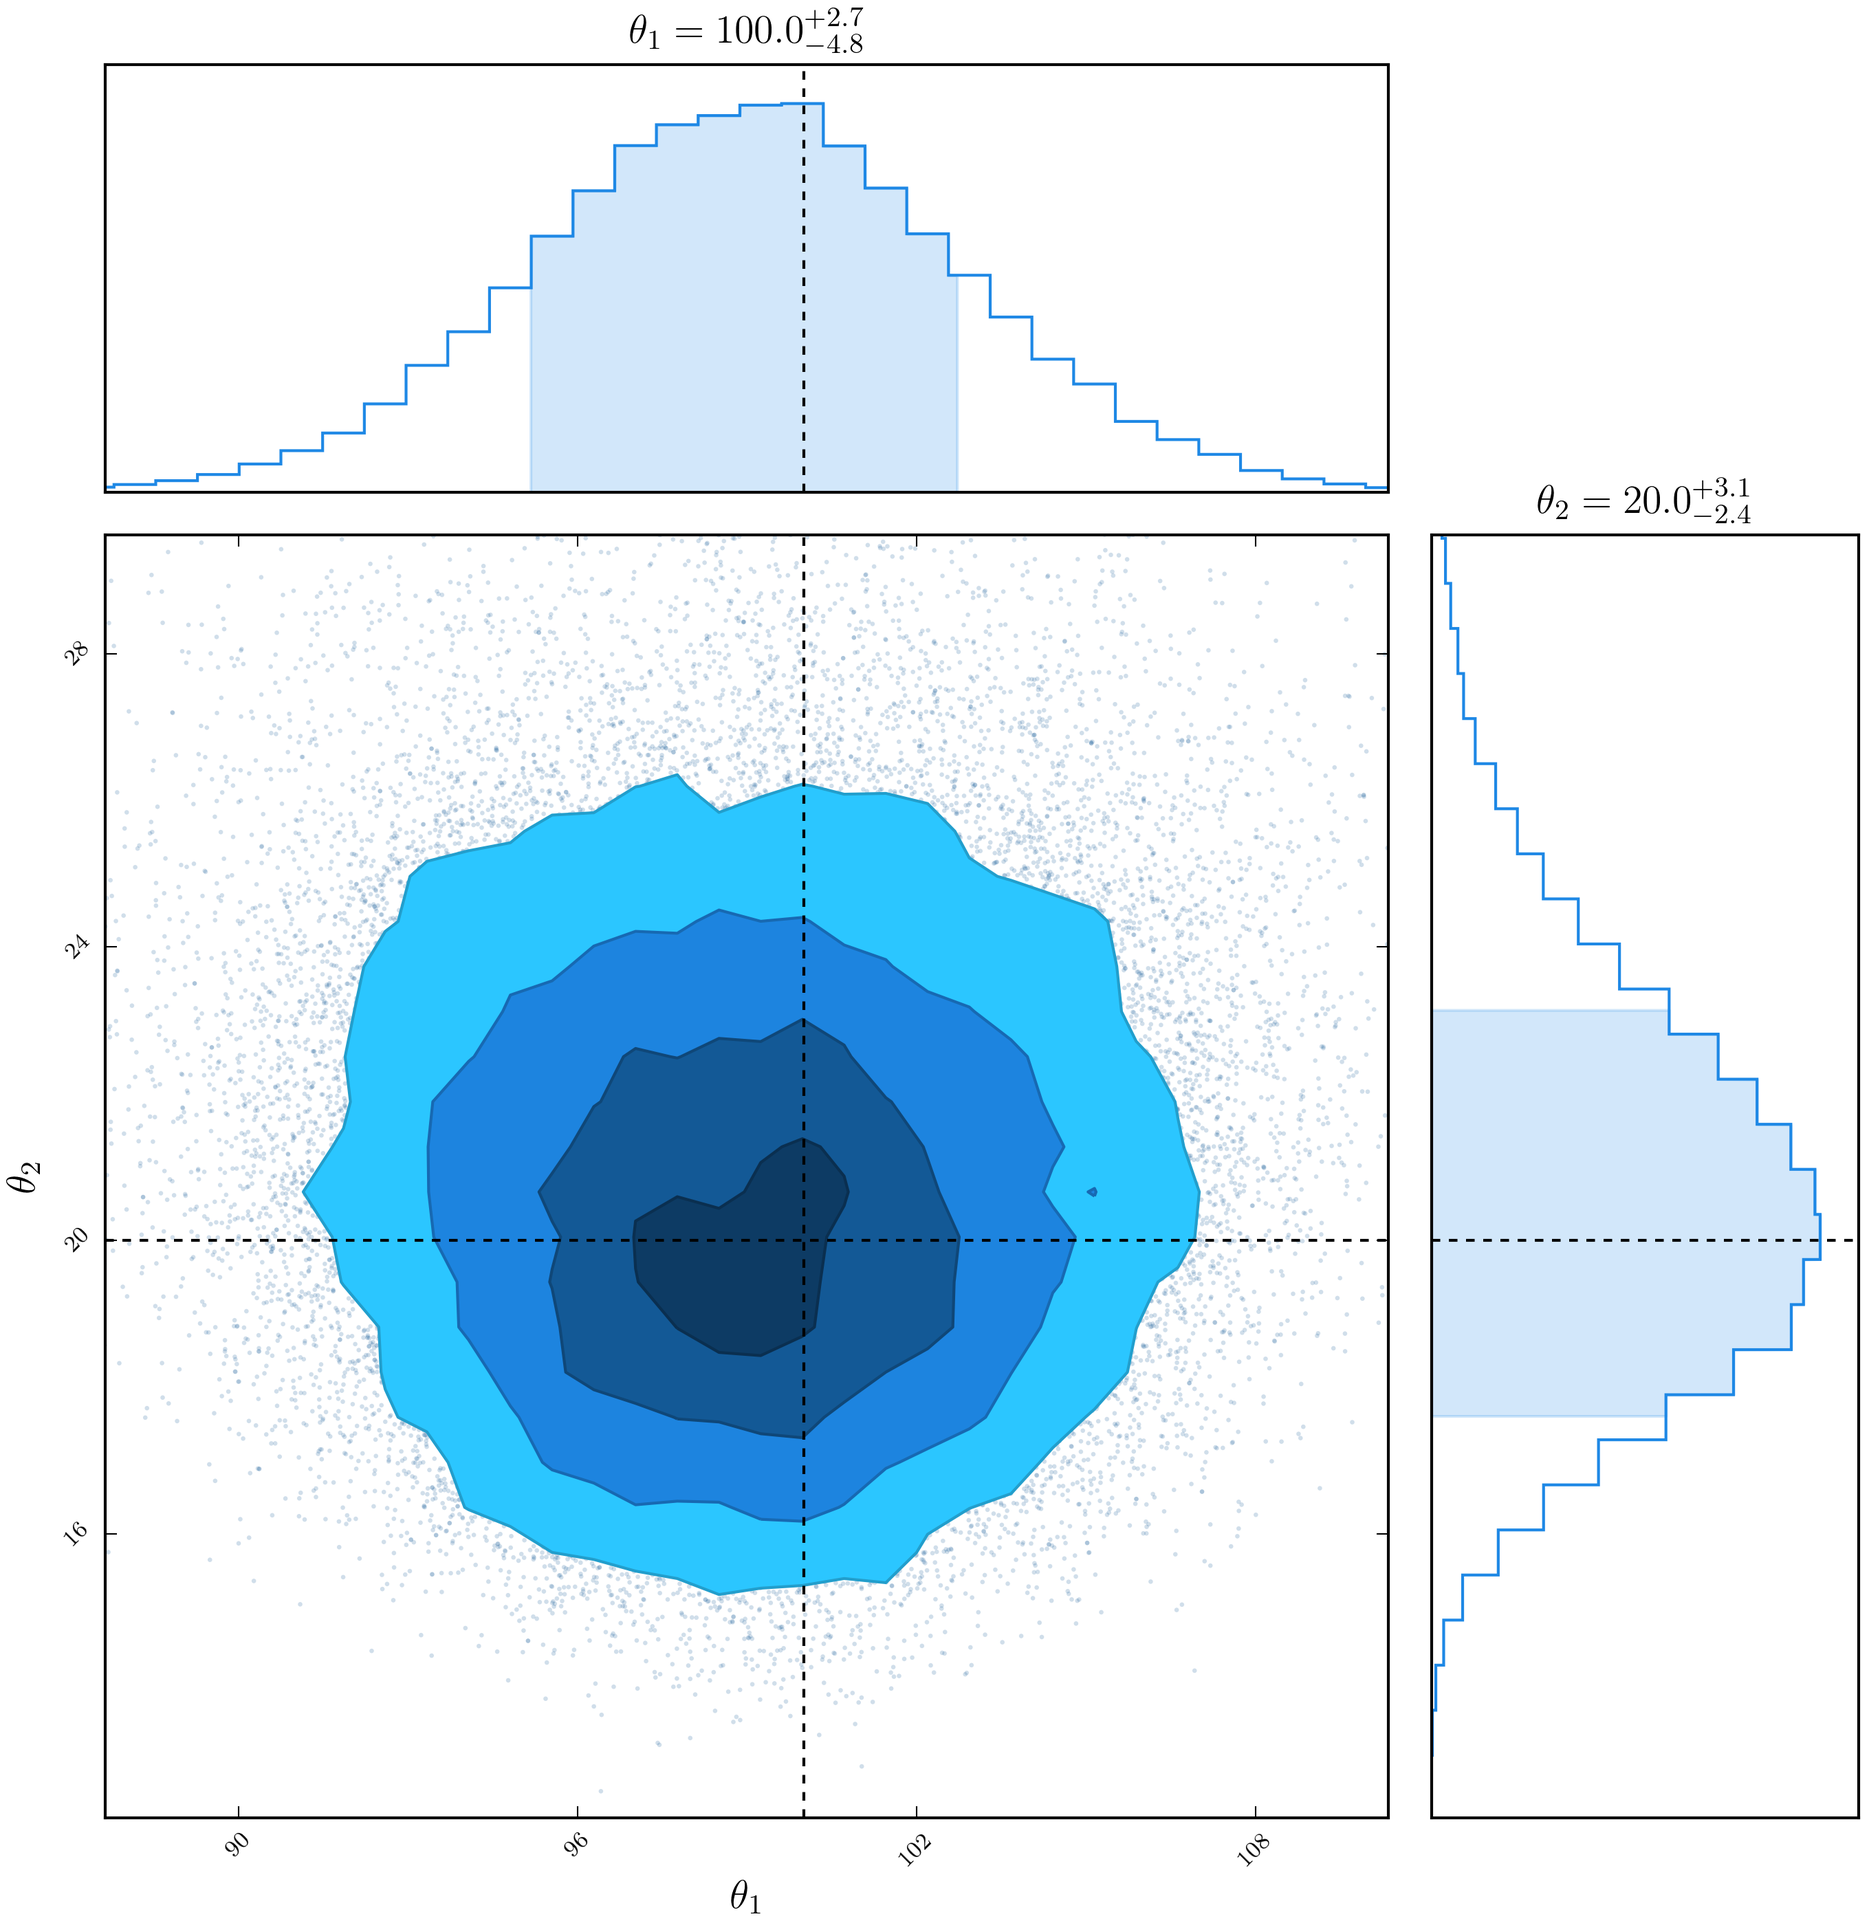
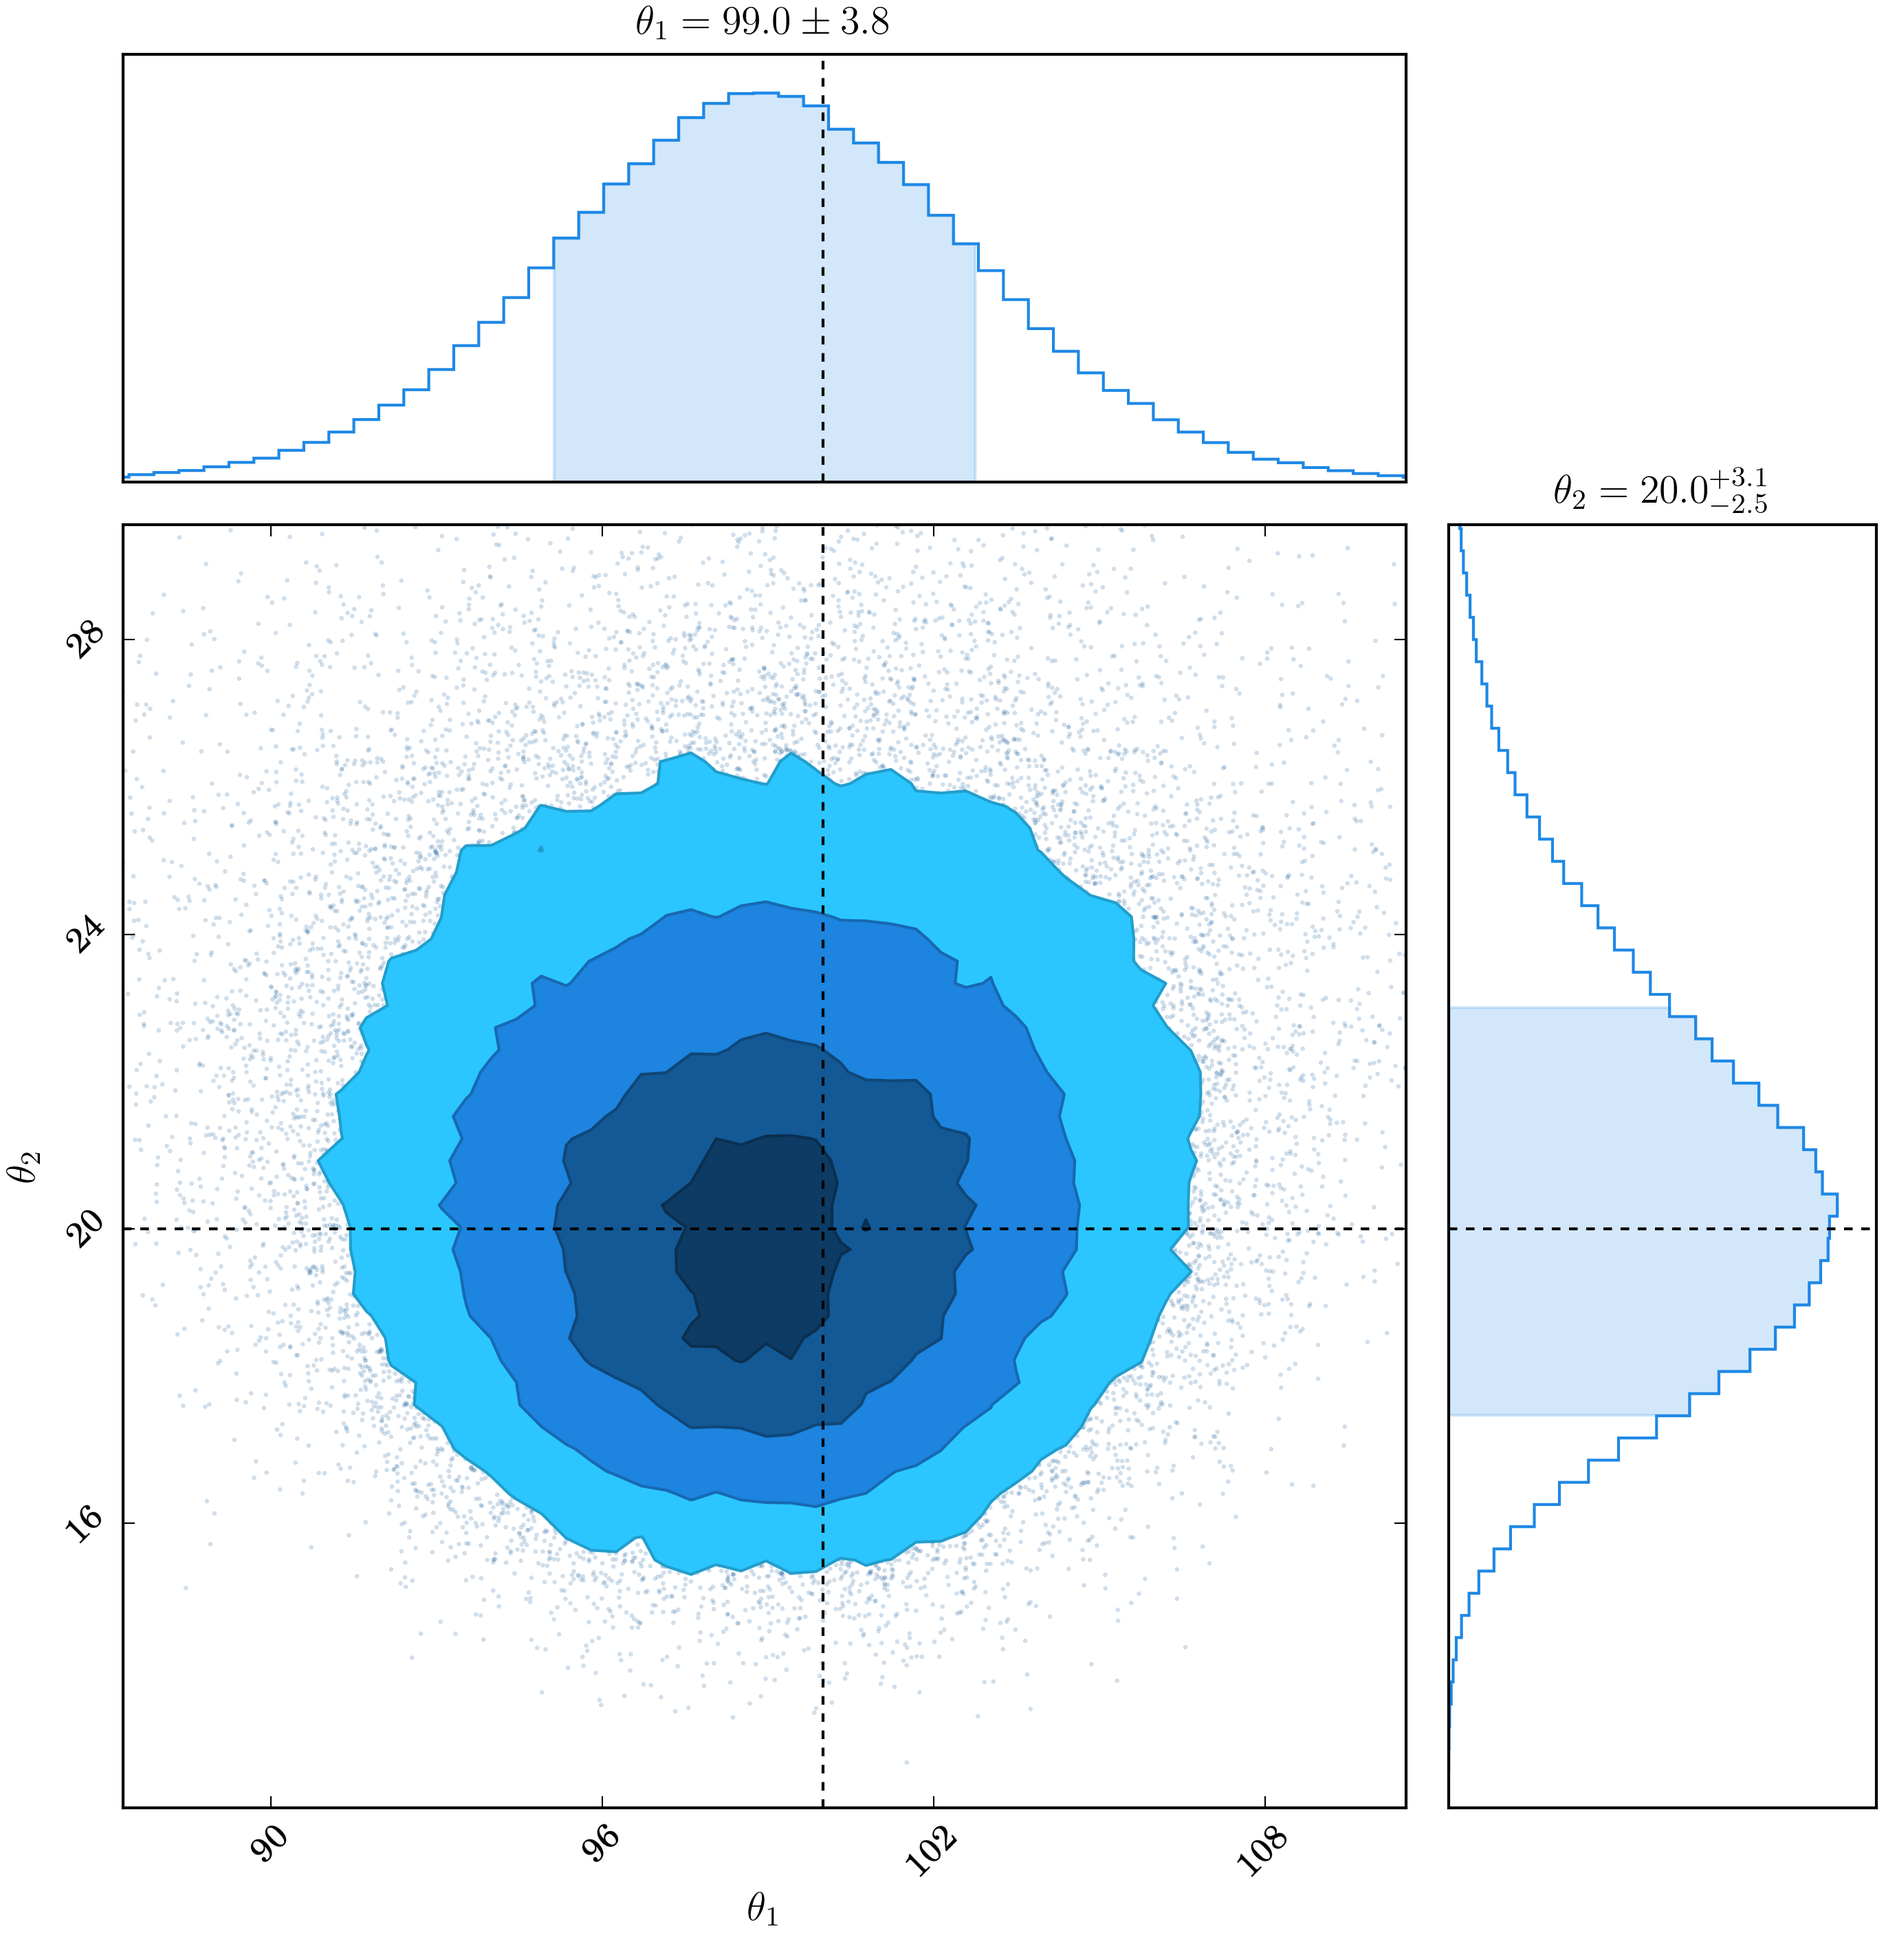
Updating bin sizes, MPIPool fixes, and more

diff --git a/dessn/model/model.py b/dessn/model/model.py
@@ -7,7 +7,8 @@ import emcee
 from emcee.utils import MPIPool
 import sys
 from scipy.optimize import fmin_bfgs
-
+import types
+import copy_reg
 
 class Model(object):
     """ A generalised model for use in arbitrary situations.
@@ -49,6 +50,7 @@ class Model(object):
         self.flat_chain = None
         self.num_temps = None
         self._labels = []
+        self.master = True
 
     def add_node(self, node):
         """ Adds a node into the models collection of nodes.
@@ -380,21 +382,26 @@ class Model(object):
             pool = MPIPool()
             if not pool.is_master():
                 self.logger.info("Slave waiting")
+                self.master = False
                 pool.wait()
                 sys.exit(0)
             else:
-                self.logger.info("Master found")
+                self.logger.info("MPIPool successful initialised and master found. Running with %d cores." % pool.size)
         except ImportError:
             self.logger.info("mpi4py is not installed or not configured properly. Ignore if running through python, not mpirun")
-        except ValueError:
+        except ValueError as e:
             self.logger.info("Unable to start MPI pool, expected normal python execution")
+            self.logger.info(str(e))
 
         num_dim = len(self._theta_names)
 
         self.num_temps = num_temps
         self.logger.debug("Fitting model with %d dimensions using %d temperature levels" % (num_dim, 0 if self.num_temps is None else self.num_temps))
         if num_walkers is None:
-            num_walkers = num_dim * 8
+            if num_temps is None:
+                num_walkers = num_dim * 8
+            else:
+                num_walkers = num_dim * 2
 
         self.logger.debug("Running emcee")
         if num_temps is None:
@@ -406,6 +413,9 @@ class Model(object):
         emcee_wrapper = EmceeWrapper(sampler)
         flat_chain = emcee_wrapper.run_chain(num_steps, num_burn, num_walkers, num_dim, start=self._get_starting_position, save_dim=self._num_actual, temp_dir=temp_dir, save_interval=save_interval)
         self.logger.debug("Fit finished")
+        if pool is not None:
+            pool.close()
+            self.logger.debug("Pool closed")
         self.flat_chain = flat_chain
         return flat_chain, self._theta_names[:self._num_actual], self._theta_labels[:self._num_actual]
 
@@ -414,3 +424,22 @@ class Model(object):
         chain_plotter = ChainConsumer()
         chain_plotter.add_chain(self.flat_chain, parameters=self._theta_labels[:self._num_actual])
         return chain_plotter
+
+    def __getstate__(self):
+        d = dict(self.__dict__)
+        del d['logger']
+        return d
+
+    def __setstate__(self, d):
+        self.__dict__.update(d)
+        if self.master:
+            self.logger = logging.getLogger(__name__)
+
+
+def _pickle_method(m):
+    if m.im_self is None:
+        return getattr, (m.im_class, m.im_func.func_name)
+    else:
+        return getattr, (m.im_self, m.im_func.func_name)
+
+copy_reg.pickle(types.MethodType, _pickle_method)

diff --git a/dessn/utility/hdemcee.py b/dessn/utility/hdemcee.py
@@ -20,6 +20,7 @@ class EmceeWrapper(object):
         past_chain = None
         pos = None
         if temp_dir is not None:
+            self.logger.debug("Looking in tempr dir %s" % temp_dir)
             chain_file = temp_dir + ".chain.npy"
             position_file = temp_dir + ".pos.npy"
             try:
@@ -27,7 +28,7 @@ class EmceeWrapper(object):
                 past_chain = np.load(chain_file)
                 self.logger.info("Found chain of %d steps" % past_chain.shape[1])
             except IOError:
-                self.logger.info("Prior chain and/or does not exist")
+                self.logger.info("Prior chain and/or does not exist. Looked in %s" % position_file)
 
         if start is None and pos is None:
             raise ValueError("You need to have either a starting function or existing chains")
@@ -47,6 +48,7 @@ class EmceeWrapper(object):
             self.logger.debug("Running full chain of %d steps" % num)
 
         t = time()
+        self.logger.debug("Starting sampling. Saving to %s ever %d seconds" % (temp_dir, save_interval))
         for result in self.sampler.sample(pos, iterations=num, storechain=False):
             if isinstance(self.sampler, PTSampler):
                 self.chain[:, step, :] = result[0][0, :, :save_dim]

diff --git a/dessn/toy/underlying.py b/dessn/toy/underlying.py
@@ -1,6 +1,4 @@
 from dessn.model.node import NodeUnderlying
-from scipy.stats import beta
-import matplotlib.pyplot as plt
 import numpy as np
 import os
 
@@ -57,21 +55,6 @@ class SupernovaIIDist(NodeUnderlying):
 class SupernovaRate(NodeUnderlying):
     def __init__(self):
         super(SupernovaRate, self).__init__("SN Rates", "sn_rate", "$r$")
-        self.b = beta(30, 2)
-
-    def plot_dist(self):
-        """ Plots the distribution for easy visualisation.
-        """
-        f = os.path.dirname(__file__) + "/../../plots/SupernovaRateDist.png"
-
-        xs = np.linspace(0, 1, 1000)
-        ys = self.b.pdf(xs)
-
-        fig, ax = plt.subplots(figsize=(6, 3))
-        ax.plot(xs, ys)
-        ax.set_xlabel("$r$")
-        ax.set_ylabel("$P(r)$")
-        fig.savefig(f, dpi=300, transparent=True, bbox_inches="tight")
 
     def get_log_prior(self, data):
         r = data["sn_rate"]
@@ -84,7 +67,3 @@ class SupernovaRate(NodeUnderlying):
 
     def get_suggestion(self, data):
         return [0.8]
-
-if __name__ == "__main__":
-    rate = SupernovaRate()
-    rate.plot_dist()

diff --git a/dessn/simple/modelbased/exampleModel.py b/dessn/simple/modelbased/exampleModel.py
@@ -139,6 +139,7 @@ if __name__ == "__main__":
     else:
         logging.basicConfig(level=logging.DEBUG)
     dir_name = os.path.dirname(__file__)
+    logging.info("Creating model")
     exampleModel = ExampleModel()
     temp_dir = os.path.abspath(dir_name + "/../../../temp/exampleModel")
 
@@ -147,10 +148,11 @@ if __name__ == "__main__":
         pgm_file = os.path.abspath(dir_name + "/../../../plots/examplePGM.png")
         exampleModel.get_pgm(pgm_file)
 
-    exampleModel.fit_model(num_steps=5000, num_burn=1000, temp_dir=temp_dir, save_interval=20)
+    logging.info("Starting fit")
+    exampleModel.fit_model(num_steps=20000, num_burn=1000, temp_dir=temp_dir, save_interval=20)
 
     if not only_data:
         chain_consumer = exampleModel.get_consumer()
-        chain_consumer.configure_general(bins=0.2)
-        exampleModel.chain_summary()
+        chain_consumer.configure_general(bins=1.0)
+        print(chain_consumer.get_summary())
         chain_consumer.plot(filename=plot_file, display=False, figsize="PAGE", truth=[100, 20])

diff --git a/dessn/utility/doJob.py b/dessn/utility/doJob.py
@@ -5,14 +5,13 @@ args = sys.argv
 
 assert len(args) >= 2, "You need to supply the filename to run"
 filename = args[1]
+cores = 60
 if len(args) > 2:
-    queue = args[2]
+    cores = int(args[2])
+if len(args) > 3:
+    queue = args[3]
 else:
     queue = "low.q"
-cores = 60
-if len(args) > 3:
-    cores = int(args[3])
-
 
 directory = os.path.dirname(os.path.abspath(__file__))
 file_path = os.path.abspath(directory + os.sep + filename)

diff --git a/dessn/chain/chain.py b/dessn/chain/chain.py
@@ -726,7 +726,7 @@ class ChainConsumer(object):
         return fig, axes, params1, params2
 
     def _get_bins(self):
-        proposal = [np.floor(0.5 * np.sqrt(chain.shape[0]) / chain.shape[1]) for chain in self.chains]
+        proposal = [max(20, np.floor(np.power(chain.shape[0], 0.3))) for chain in self.chains]
         return proposal
         
     def _clamp(self, val, minimum=0, maximum=255):

diff --git a/dessn/toy/toyModel.py b/dessn/toy/toyModel.py
@@ -71,7 +71,7 @@ if __name__ == "__main__":
     if not only_data:
         fig = toy_model.get_pgm(pgm_file)
 
-    toy_model.fit_model(num_temps=5, num_steps=200, num_burn=50, temp_dir=temp_dir, save_interval=20)
+    toy_model.fit_model(num_temps=4, num_steps=5000, num_burn=2000, temp_dir=temp_dir, save_interval=60)
 
     if not only_data:
         chain_consumer = toy_model.get_consumer()
